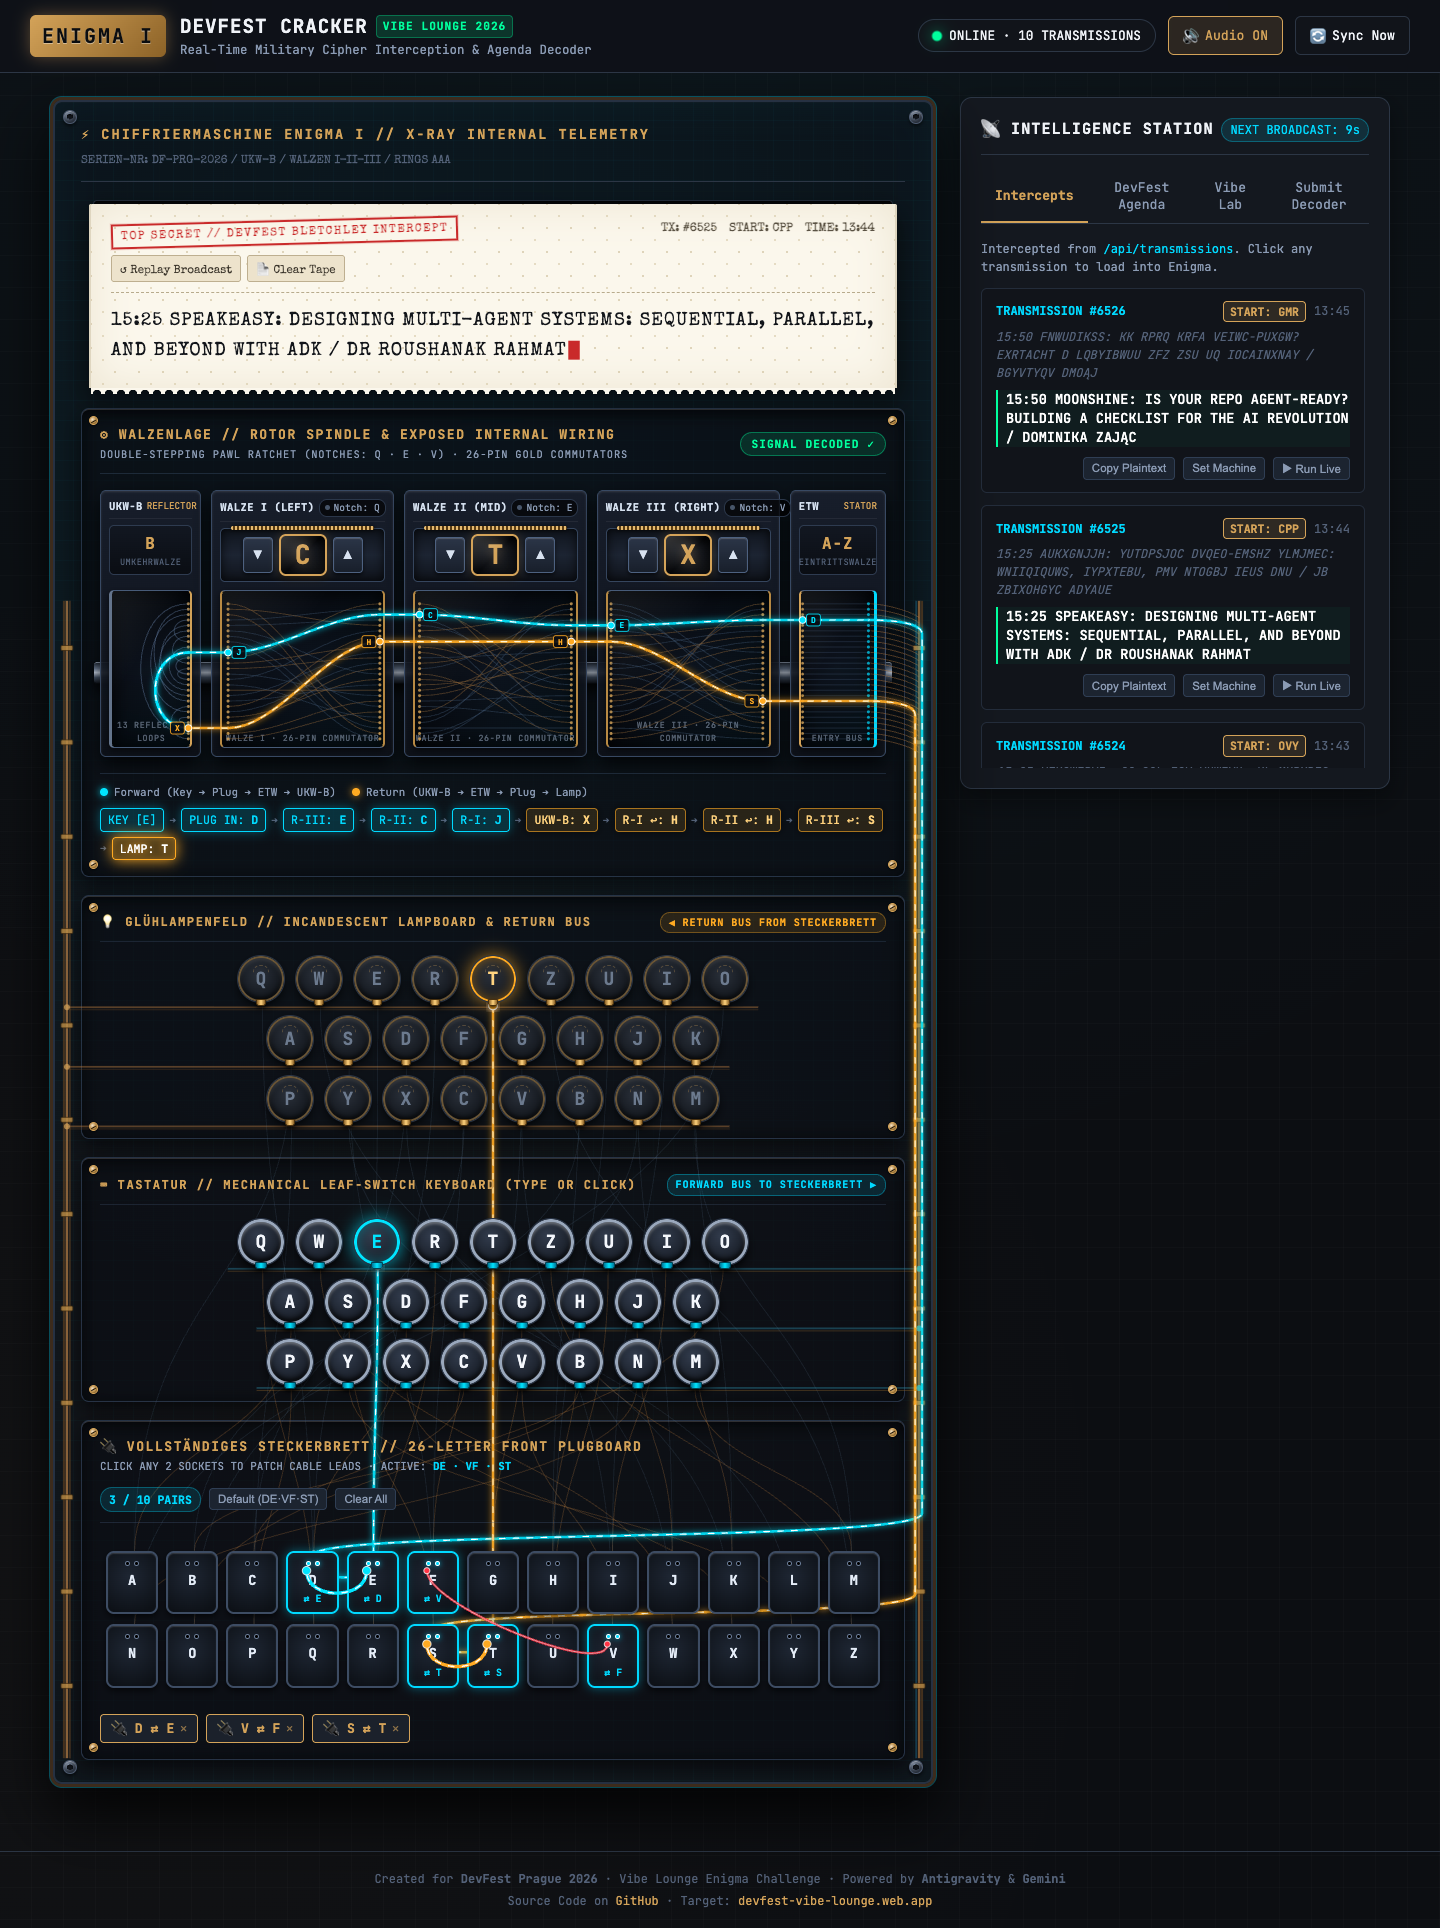
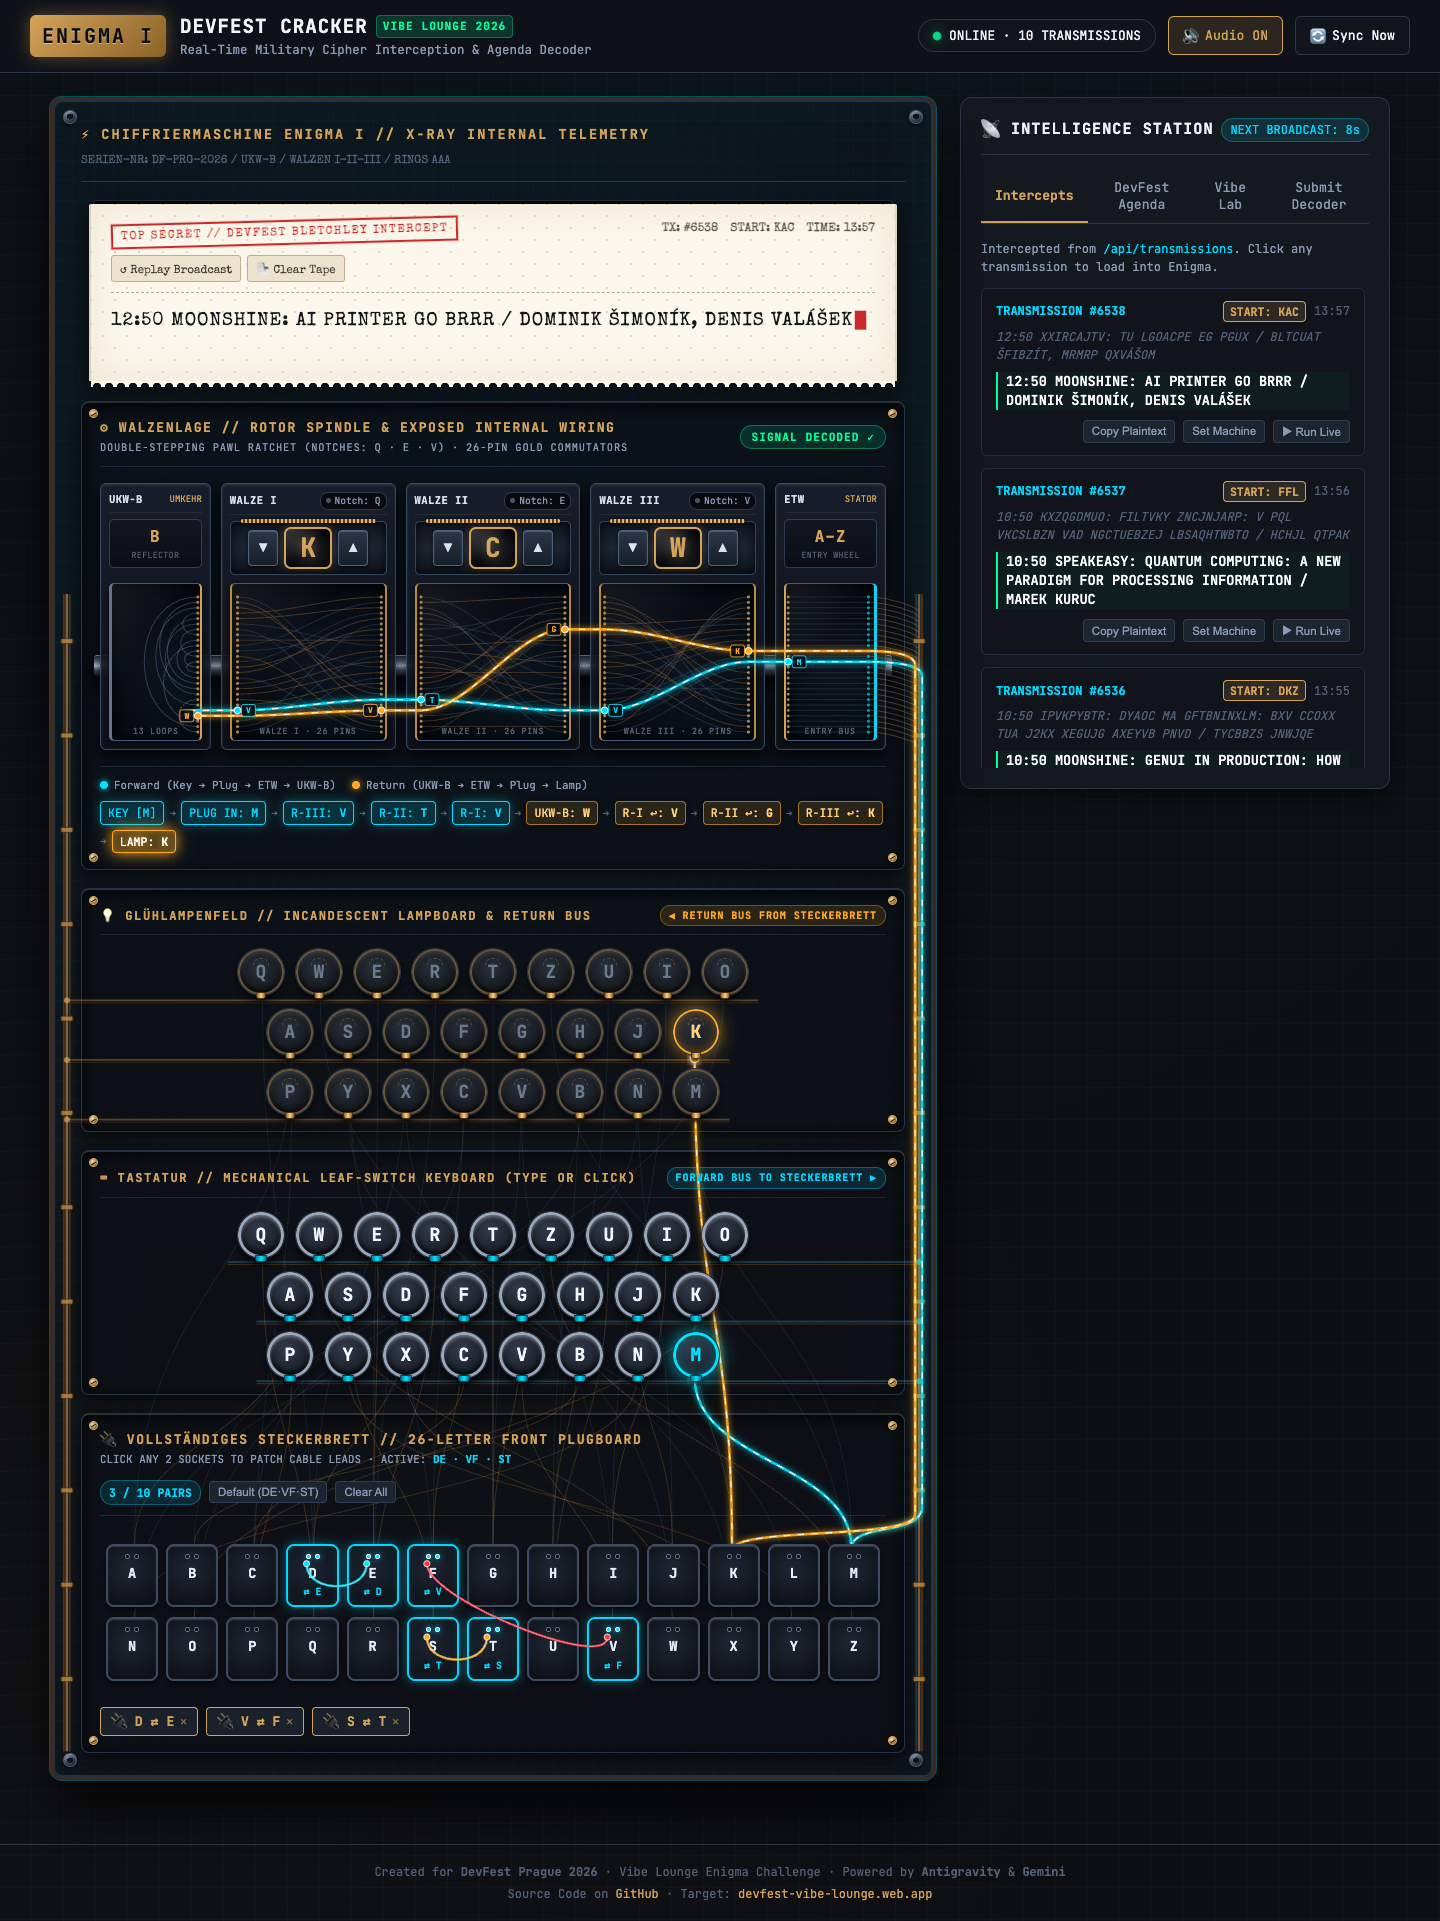
Fix overlapping labels in Walzenlage rotor and stator headers

diff --git a/index.html b/index.html
@@ -117,16 +117,16 @@
             <div class="rotor-top-deck stator-top-deck">
               <div class="rotor-unit-header">
                 <span class="rotor-label">UKW-B</span>
-                <span class="stator-sub">Reflector</span>
+                <span class="stator-sub">Umkehr</span>
               </div>
               <div class="stator-badge-box">
                 <span class="stator-code">B</span>
-                <span class="stator-desc">Umkehrwalze</span>
+                <span class="stator-desc">Reflector</span>
               </div>
             </div>
             <div class="cutaway-drum ukw-drum" id="drum-ukw" data-drum="ukw">
               <div class="drum-glass-glare"></div>
-              <span class="drum-tag">13 REFLECTOR LOOPS</span>
+              <span class="drum-tag">13 LOOPS</span>
             </div>
           </div>
 
@@ -134,7 +134,7 @@
           <div class="rotor-unit" data-rotor-idx="0">
             <div class="rotor-top-deck">
               <div class="rotor-unit-header">
-                <span class="rotor-label">Walze I (Left)</span>
+                <span class="rotor-label">Walze I</span>
                 <span class="rotor-notch-indicator" id="notch-0">Notch: Q</span>
               </div>
               <div class="rotor-wheel">
@@ -146,7 +146,7 @@
             </div>
             <div class="cutaway-drum rotor-drum" id="drum-r1" data-drum="r1">
               <div class="drum-glass-glare"></div>
-              <span class="drum-tag">WALZE I · 26-PIN COMMUTATOR</span>
+              <span class="drum-tag">WALZE I · 26 PINS</span>
             </div>
           </div>
 
@@ -154,7 +154,7 @@
           <div class="rotor-unit" data-rotor-idx="1">
             <div class="rotor-top-deck">
               <div class="rotor-unit-header">
-                <span class="rotor-label">Walze II (Mid)</span>
+                <span class="rotor-label">Walze II</span>
                 <span class="rotor-notch-indicator" id="notch-1">Notch: E</span>
               </div>
               <div class="rotor-wheel">
@@ -166,7 +166,7 @@
             </div>
             <div class="cutaway-drum rotor-drum" id="drum-r2" data-drum="r2">
               <div class="drum-glass-glare"></div>
-              <span class="drum-tag">WALZE II · 26-PIN COMMUTATOR</span>
+              <span class="drum-tag">WALZE II · 26 PINS</span>
             </div>
           </div>
 
@@ -174,7 +174,7 @@
           <div class="rotor-unit" data-rotor-idx="2">
             <div class="rotor-top-deck">
               <div class="rotor-unit-header">
-                <span class="rotor-label">Walze III (Right)</span>
+                <span class="rotor-label">Walze III</span>
                 <span class="rotor-notch-indicator" id="notch-2">Notch: V</span>
               </div>
               <div class="rotor-wheel">
@@ -186,7 +186,7 @@
             </div>
             <div class="cutaway-drum rotor-drum" id="drum-r3" data-drum="r3">
               <div class="drum-glass-glare"></div>
-              <span class="drum-tag">WALZE III · 26-PIN COMMUTATOR</span>
+              <span class="drum-tag">WALZE III · 26 PINS</span>
             </div>
           </div>
 
@@ -198,8 +198,8 @@
                 <span class="stator-sub">Stator</span>
               </div>
               <div class="stator-badge-box">
-                <span class="stator-code">A-Z</span>
-                <span class="stator-desc">Eintrittswalze</span>
+                <span class="stator-code">A–Z</span>
+                <span class="stator-desc">Entry Wheel</span>
               </div>
             </div>
             <div class="cutaway-drum etw-drum" id="drum-etw" data-drum="etw">

diff --git a/style.css b/style.css
@@ -509,7 +509,7 @@ body {
 
 .spindle-assembly {
   display: grid;
-  grid-template-columns: 0.82fr 1.48fr 1.48fr 1.48fr 0.78fr;
+  grid-template-columns: 0.9fr 1.42fr 1.42fr 1.42fr 0.9fr;
   gap: 10px;
   align-items: stretch;
   position: relative;
@@ -544,6 +544,7 @@ body {
   justify-content: space-between;
   gap: 8px;
   position: relative;
+  overflow: hidden;
   box-shadow: 
     inset 0 1px 2px rgba(255, 255, 255, 0.12),
     0 8px 18px rgba(0, 0, 0, 0.75);
@@ -558,6 +559,7 @@ body {
   min-height: 76px;
   position: relative;
   z-index: 10;
+  min-width: 0;
 }
 
 .rotor-unit-header {
@@ -567,6 +569,7 @@ body {
   gap: 4px;
   padding-bottom: 4px;
   border-bottom: 1px solid rgba(255, 255, 255, 0.06);
+  min-width: 0;
 }
 
 .rotor-label {
@@ -579,9 +582,10 @@ body {
 }
 
 .stator-sub {
-  font-size: 0.58rem;
+  font-size: 0.56rem;
   color: var(--brass);
   text-transform: uppercase;
+  white-space: nowrap;
 }
 
 .stator-badge-box {
@@ -593,7 +597,8 @@ body {
   background: linear-gradient(180deg, #121721 0%, #0a0d13 100%);
   border: 1px solid #2e3b50;
   border-radius: 5px;
-  padding: 4px;
+  padding: 4px 2px;
+  overflow: hidden;
 }
 
 .stator-code {
@@ -604,10 +609,11 @@ body {
 }
 
 .stator-desc {
-  font-size: 0.54rem;
+  font-size: 0.52rem;
   color: var(--text-dim);
   text-transform: uppercase;
-  letter-spacing: 0.4px;
+  letter-spacing: 0.3px;
+  white-space: nowrap;
 }
 
 .rotor-notch-indicator {
